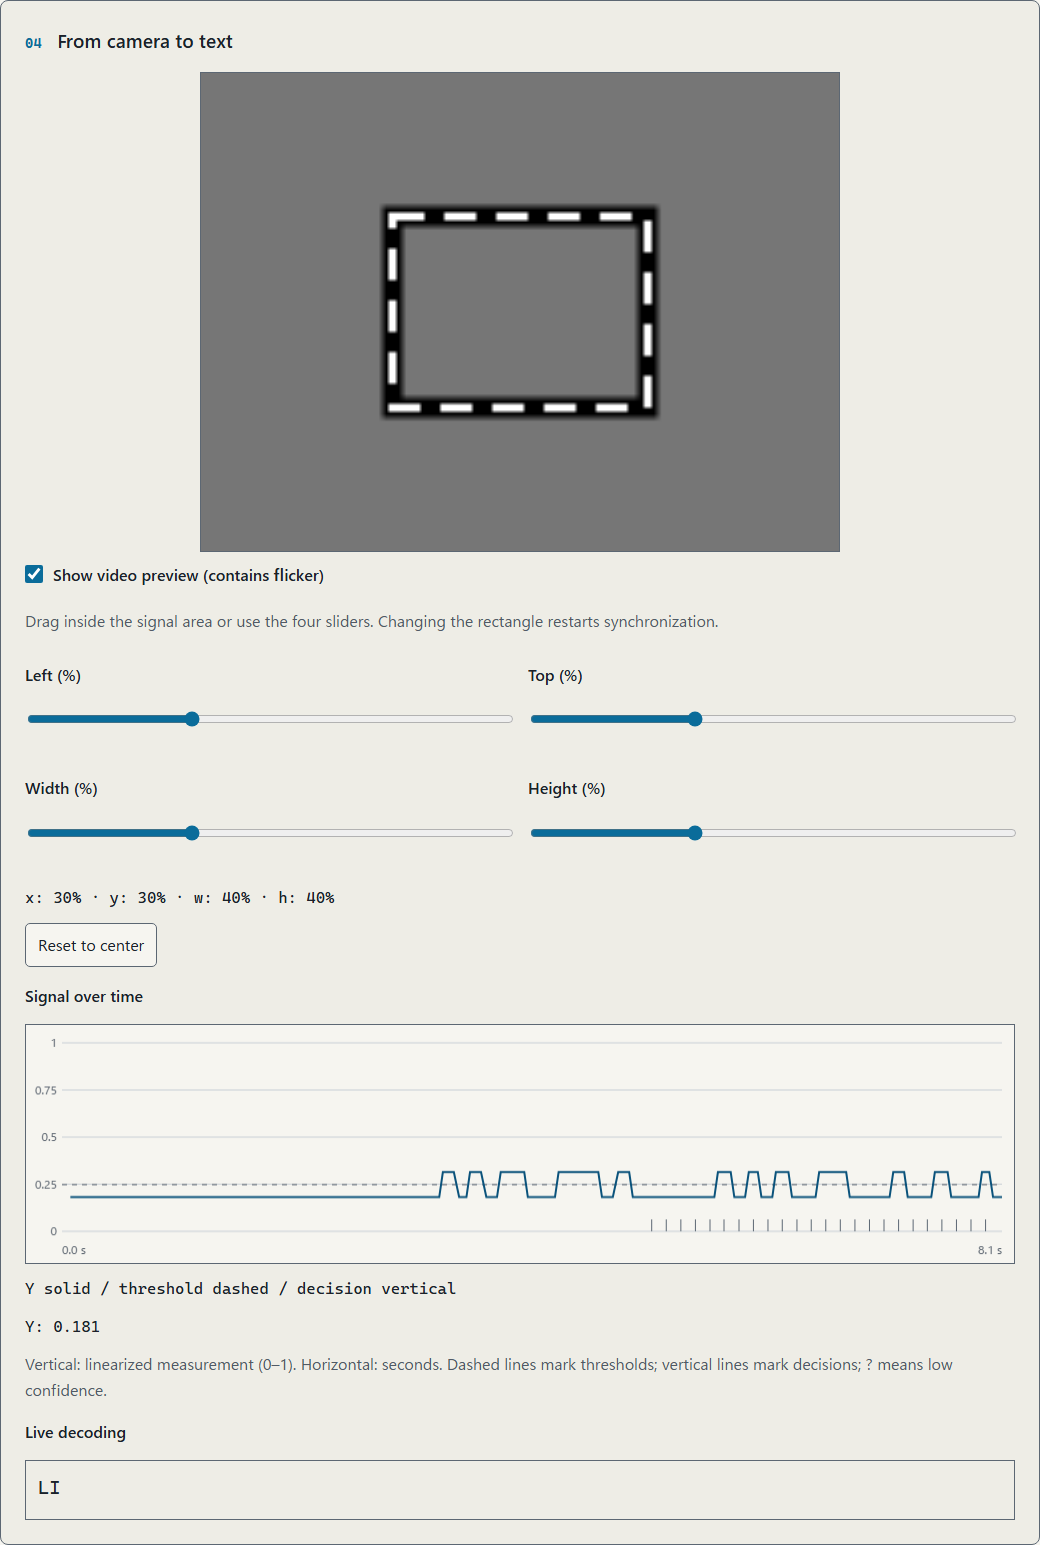
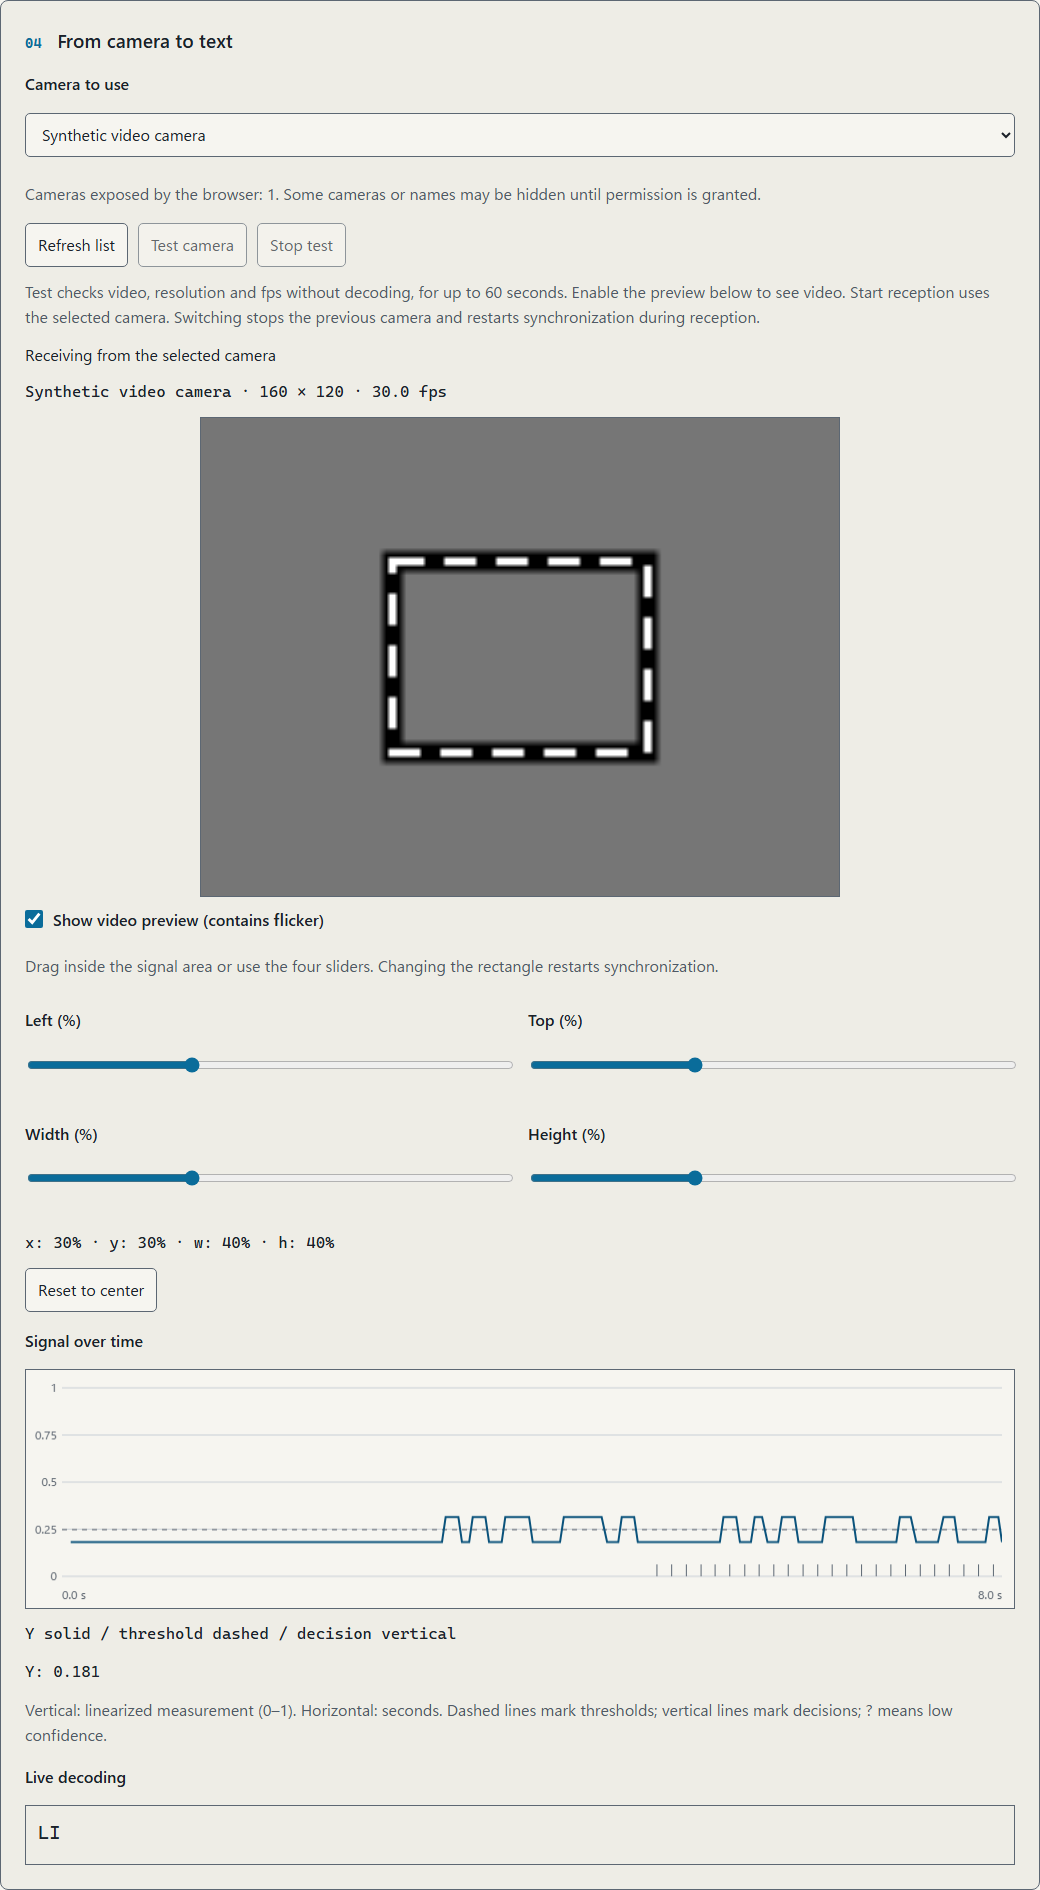
段階3: カメラの操作説明と検証記録・画像を更新

diff --git a/test/browser.py b/test/browser.py
@@ -380,6 +380,20 @@ def transmission(p, url, report, capture):
                 '--use-file-for-fake-video-capture=' + str(OUT / f'{mode}-2.y4m')]
             browser = p.chromium.launch(args=args)
             context = browser.new_context(viewport={'width': 1280, 'height': 1000})
+            if capture and role == 'receive':
+                # Name the synthetic fixture explicitly instead of publishing its local file path.
+                context.add_init_script('''const list = navigator.mediaDevices.enumerateDevices.bind(navigator.mediaDevices);
+                  navigator.mediaDevices.enumerateDevices = async () => (await list()).map(device => ({
+                    kind:device.kind,deviceId:device.deviceId,groupId:device.groupId,
+                    label:device.kind === 'videoinput' ? 'Synthetic video camera' : device.label}));
+                  const open = navigator.mediaDevices.getUserMedia.bind(navigator.mediaDevices);
+                  navigator.mediaDevices.getUserMedia = async constraints => {
+                    const stream = await open(constraints);
+                    for (const track of stream.getVideoTracks()) {
+                      Object.defineProperty(track,'label',{value:'Synthetic video camera'});
+                    }
+                    return stream;
+                  };''')
             page = context.new_page()
             errors = errors_for(page)
             page.goto(url + '?lang=en')
@@ -391,6 +405,7 @@ def transmission(p, url, report, capture):
             page.click('#start')
             page.wait_for_function("() => document.querySelector('#live').textContent.length >= 2", timeout=25000)
             if capture and role == 'receive' and mode == 'mono':
+                assert 'Synthetic video camera' in page.locator('#camera-details').inner_text()
                 screenshot(page, 'receive', 'en', '#receiver')
                 page.click('#language')
                 screenshot(page, 'receive', 'ja', '#receiver')

diff --git a/README.md b/README.md
@@ -77,10 +77,16 @@ hub: true
 点滅は光過敏性発作（PSE）や体調不良の原因になり得ます。周囲の人にも配慮し、不調を感じたら停止してください。低速・低コントラストでも安全を保証するものではありません。作者は悪用を勧めません。
 
 1. 2台でデモを開き、どちらも「モノクロ」にする。画面の明るさを抑え、反射を避ける。
-2. 受信側を「受けるだけ」にして開始し、カメラを許可する。送信画面の発光面の内側だけが測定枠に入るよう、端末を固定する。
-3. 送信側を「送るだけ」にし、まず`A`を入力して開始する。初期設定で23秒。受信側を先に開始し、60秒の受信制限内に送信を終える。
-4. ライブ文字とグラフを観察する。最後にCRCと終了マーカー・UTF-8を確認する。不成功の文字列は未確認として扱う。
-5. 「停止」で中断する。「表示を消去」で結果と測定値を消す。
+2. 受信側を「受けるだけ」にし、「カメラをテスト」を押してカメラを許可する。名前、解像度、取得fpsと映像を確認する。プレビューがオフなら「映像を表示する」をオンにする。
+3. カメラが複数ある場合は「使うカメラ」で選ぶ。テスト中にも切り替えられる。接続したカメラが見つからなければ「一覧を更新」を押す。
+4. 受信側で「受信開始」を押す。送信画面の発光面の内側だけが測定枠に入るよう、端末を固定する。
+5. 送信側を「送るだけ」にし、まず`A`を入力して開始する。初期設定で23秒。受信側を先に開始し、60秒の受信制限内に送信を終える。
+6. ライブ文字とグラフを観察する。最後にCRCと終了マーカー・UTF-8を確認する。不成功の文字列は未確認として扱う。
+7. 「停止」で中断する。「表示を消去」で結果と測定値を消す。
+
+カメラテストでは復号せず、映像が取得できるかを確認します。「テストを停止」、タブの非表示、最大60秒でカメラを解放します。テスト中の「受信開始」は同じカメラで受信を始め、受信の制限時間を数え直します。受信中のカメラ変更では前のカメラを停止し、同期と復号を最初からやり直します。カメラ名や選択した機器は保存しません。
+
+カメラの一覧と名前は、許可前には省略される場合があります。空の一覧だけでは未接続と断定できません。テストで許可拒否、カメラなし、使用中、選んだ機器の利用不可を分けて表示します。映像の取得を確認できても、光通信の成功を保証するものではありません。
 
 カラーを試すときは両側をカラーにします。先頭の較正を含めて受信してください。速い設定、カラー、高コントラスト、動きを減らす設定での送信には確認ダイアログがあります。全画面表示や自動再送はありません。タブが隠れると停止し、自動再開しません。
 
@@ -91,6 +97,7 @@ hub: true
 | 項目 | 内容 |
 |---|---|
 | 役割 | 送るだけ／受けるだけ／オフライン復号の3種類 |
+| カメラ | 一覧と更新、機器の選択、映像と解像度・fpsのテスト。切り替え時は旧カメラを解放 |
 | モノクロ | 2段階の輝度で1 bit/symbol |
 | カラー | RGBそれぞれ2値、計3 bit/symbol。黒基準とRGBの較正付き |
 | 測定枠 | ドラッグまたは4本のスライダーで指定。変更時は同期を再取得 |

diff --git a/README.en.md b/README.en.md
@@ -77,10 +77,16 @@ No installation is required. Defaults are binary monochrome, 2 symbol/s, low con
 Flashing light can trigger photosensitive seizures (PSE) or discomfort. Consider people nearby and stop if you feel unwell. Low speed and low contrast do not guarantee safety. The author does not encourage misuse.
 
 1. Open the demo on two devices and select Monochrome on both. Lower screen brightness and avoid reflections.
-2. Choose Receive only on the receiver, start it, and allow camera access. Keep the devices still, with the measurement rectangle entirely inside the sender's signal area.
-3. Choose Send only on the sender and start with `A`. It takes 23 seconds at the defaults. Start reception first and finish transmission within the 60-second reception limit.
-4. Watch the live characters and trace. Check CRC, end marker and UTF-8 at the end. Treat text from failed checks as unverified.
-5. Use Stop to interrupt, or Clear display to remove the result and measurements.
+2. Choose Receive only on the receiver, press Test camera, and allow camera access. Check the camera name, resolution, sampled fps and video. Enable Show video preview if it is off.
+3. If there are multiple cameras, choose one under Camera to use. You can switch during testing. Use Refresh list if a connected camera is missing.
+4. Press Start reception on the receiver. Keep the devices still, with the measurement rectangle entirely inside the sender's signal area.
+5. Choose Send only on the sender and start with `A`. It takes 23 seconds at the defaults. Start reception first and finish transmission within the 60-second reception limit.
+6. Watch the live characters and trace. Check CRC, end marker and UTF-8 at the end. Treat text from failed checks as unverified.
+7. Use Stop to interrupt, or Clear display to remove the result and measurements.
+
+Camera testing checks frame capture without decoding. Stop test, hiding the tab, or the 60-second limit releases the camera. Start reception during testing uses the same camera and starts a new reception time limit. Switching cameras during reception releases the old camera and restarts synchronization and decoding. Camera names and the selected device are not saved.
+
+Camera lists and names may be incomplete before permission is granted. An empty list alone does not prove that no camera is connected. Testing distinguishes permission denial, no camera, a camera that cannot be opened, and an unavailable selected device. Successful frame capture does not guarantee optical communication.
 
 For color, select Color on both devices and receive the calibration at the beginning. Faster rates, color, high contrast, and transmission with reduced motion enabled require a confirmation dialog. There is no full-screen mode or automatic retransmission. Hiding the tab stops the session without automatic resumption.
 
@@ -91,6 +97,7 @@ To inspect a recording on one device, choose Offline decoding and select a video
 | Item | Behavior |
 |---|---|
 | Roles | Send only, Receive only, Offline decoding |
+| Cameras | List and refresh, device selection, video/resolution/fps test; switching releases the previous camera |
 | Monochrome | Two brightness levels carrying 1 bit/symbol |
 | Color | Two levels per RGB channel, totaling 3 bits/symbol; baseline and RGB calibration |
 | Measurement rectangle | Drag or use four sliders; changes restart synchronization |
